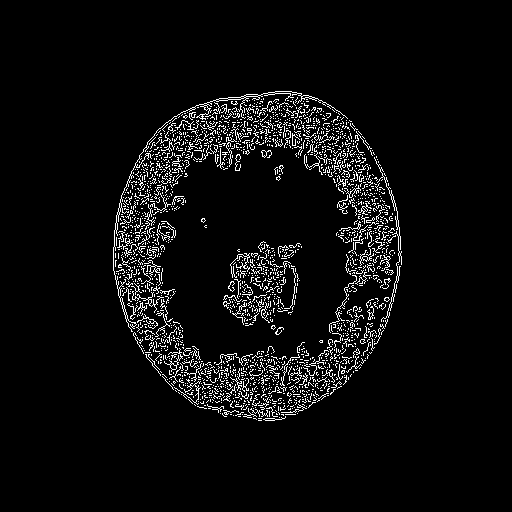
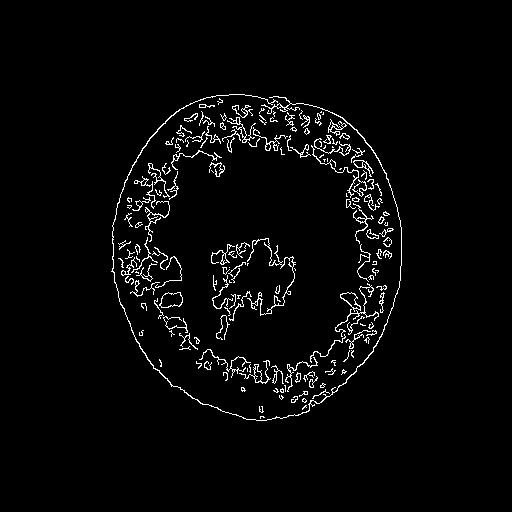
修改了边缘检测的参数

Changed region(s): [[0.2188, 0.1562, 0.8125, 0.8438], [0.4062, 0.4688, 0.5938, 0.6562]]

diff --git a/Canny_Edge_Detection.py b/Canny_Edge_Detection.py
@@ -11,12 +11,12 @@ def get_canny_edges(image_path, low_threshold=100, high_threshold=200):
     # 1. 读取原始图像 (假设你有一张粗糙的橙子截面渲染图)
     image = cv2.imread(image_path)
 
-    # 2. 将图片转换为灰度图（边缘检测不需要彩色）
+    # 2. 将图片转换为灰度图
     gray_image = cv2.cvtColor(image, cv2.COLOR_BGR2GRAY)
-
-    # 3. 施加 Canny 边缘检测魔法
+    blurred_image = cv2.GaussianBlur(gray_image, (5, 5), 0)#磨皮，去除一些物体外的小高斯云的影响
+    # 3. 施加 Canny 边缘检测
     # 这里的 100 和 200 是阈值，数字越小提取的线条越丰富（也越杂乱），越大线条越干净
-    edges = cv2.Canny(gray_image, low_threshold, high_threshold)
+    edges = cv2.Canny(blurred_image, low_threshold, high_threshold)
 
     # 4. 把单通道的黑白图转回三通道（为了后续喂给 AI），并保存
     edges_3c = cv2.cvtColor(edges, cv2.COLOR_GRAY2BGR)
@@ -49,12 +49,13 @@ def generate_with_controlnet(edge_image_path, prompt= "A highly detailed, hyper-
         prompt=prompt,
         image=edge_image,
         num_inference_steps=20,  # 绘画步数
-        guidance_scale=7.5  # 听从提示词的程度
+        guidance_scale=7.5,  # 听从提示词的程度
+        controlnet_conditioning_scale=0.5 #听从线稿的程度
     ).images[0]
 
     image.save("./ai_generate/ai_generated_orange.png")
     print("生成完毕！已保存为 ai_generated_orange.png")
-    return os.path.abspath("ai_generated_orange.png")
+    return os.path.abspath("ai_generate/ai_generated_orange.png")
 # 测试运行（假设上一步生成的线稿叫 orange_edges.png）
 # prompt = "A highly detailed, hyper-realistic macro photography of a fresh orange cross section, juicy, 4k resolution"
 # generate_with_controlnet("orange_edges.png", prompt)

diff --git a/train_orange_demo.py b/train_orange_demo.py
@@ -410,7 +410,7 @@ if __name__ == "__main__":
 
             save_img(rendering, args.output_path, 0, f"v{i}_init_")
 
-            if i % 10 == 0:
+            if j % 10 == 0:
                 cur_img = Image.open(os.path.join(args.output_path, f"v{i}_init_0.png"))
                 if args.model=="local":
                     try:
@@ -543,7 +543,7 @@ if __name__ == "__main__":
 
             save_img(rendering, args.output_path, 0, f"h{i}_init_")
 
-            if i % 10 == 0:
+            if j % 10 == 0:
                 cur_img = Image.open(os.path.join(args.output_path, f"h{i}_init_0.png"))
                 # 【修复点 4】：语法错误修复
                 if args.model == "local":
